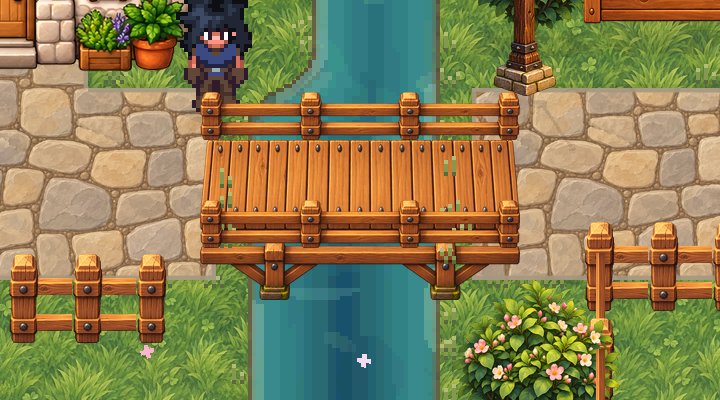
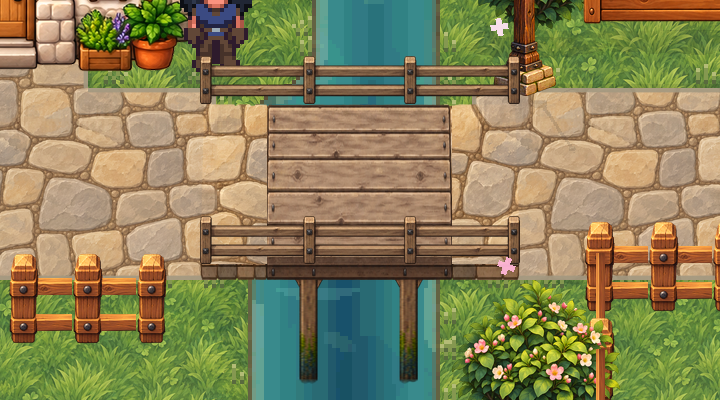
Integra ponte ao calçamento e leva as estacas até a água

diff --git a/ferramentas/cidade/preparar_ponte_detalhada.py b/ferramentas/cidade/preparar_ponte_detalhada.py
@@ -4,22 +4,35 @@ O original e o pedido ficam em arte/fontes/cidade/ponte_detalhada.
 Geometria e colisão: codigo/cidade/ponte_cidade.gd (unidades lógicas).
 """
 from pathlib import Path
+import json
 from PIL import Image
 from preparar_complementos import ESTACOES, salvar, sazonal
 
 RAIZ = Path(__file__).resolve().parents[2]
-FONTE = RAIZ / 'arte/fontes/cidade/ponte_detalhada/kit.png'
+FONTE = RAIZ / 'arte/fontes/cidade/ponte_detalhada/kit_margens_estacas.png'
 SAIDA = RAIZ / 'assets/cenario/cidade/ponte_detalhada'
+
+
+def cabeceiras(im, estacao):
+    """Continua a pedra da rua na mesma escala e fase espacial do shader."""
+    pedra = Image.open(RAIZ / f'assets/cenario/cidade/chao_detalhado/pedra_{estacao}.png').convert('RGB')
+    im = im.copy()
+    for y in range(160):
+        for x in [*range(67), *range(252, 320)]:
+            r, g, b = pedra.getpixel(((636 * 4 + x) % 512, (252 * 4 + y) % 512))
+            im.putpixel((x, y), (r, g, b, im.getpixel((x, y))[3]))
+    return im
 
 
 def preparar():
     original = Image.open(FONTE).convert('RGBA')
     # Separação pelos intervalos transparentes do original; a mesma peça serve
     # às quatro estações e aos dois corrimãos, sem variar pivô nem comprimento.
+    contatos = []
     for nome, faixa, tamanho in [
-        ('piso', (0, 100, 1536, 360), (320, 108)),
-        ('corrimao', (0, 400, 1536, 660), (320, 48)),
-        ('apoios', (0, 700, 1536, 970), (320, 60)),
+        ('piso', (0, 125, 1536, 360), (320, 176)),
+        ('corrimao', (0, 395, 1536, 555), (320, 48)),
+        ('apoios', (0, 595, 1536, 985), (176, 120)),
     ]:
         im = original.crop(faixa)
         alpha = im.getchannel('A')
@@ -28,8 +41,50 @@ def preparar():
         # as bordas suavizadas da pintura e os vãos reais entre as travessas.
         im.putalpha(im.getchannel('A').point(lambda a: 0 if a < 32 else a))
         im = im.resize(tamanho, Image.Resampling.LANCZOS)
+        if nome == 'apoios':
+            # Ajusta a espessura dos dois pilares à escala lógica, preservando
+            # a viga e as mãos francesas do desenho. As pontas continuam na
+            # mesma linha de água, com quatro pixels e meio de madeira maciça.
+            for x0, x1 in [(25, 35), (141, 151)]:
+                pilar = im.crop((x0, 0, x1, im.height)).resize((21, im.height), Image.Resampling.LANCZOS)
+                im.paste((0, 0, 0, 0), (x0, 0, x1, im.height))
+                im.alpha_composite(pilar, (x0 - 6, 0))
+            # O intervalo entre pilares coincide com os dois postes internos
+            # do corrimão, em vez de deixar o guarda-corpo sem apoio alinhado.
+            im = im.resize((152, 120), Image.Resampling.LANCZOS)
+            # A água encontra os dois pilares reais da imagem, sem usar os
+            # extremos da viga nem presumir que o desenho chega aos cantos.
+            y = im.height - 6
+            trechos = []
+            for x in range(im.width):
+                if im.getpixel((x, y))[3] < 160:
+                    continue
+                if not trechos or x > trechos[-1][-1] + 1:
+                    trechos.append([x])
+                else:
+                    trechos[-1].append(x)
+            assert len(trechos) == 2, 'A linha de água deve cortar duas estacas.'
+            contatos = [[round((t[0] + t[-1]) / 8, 3), y / 4] for t in trechos]
+            # Só a ponta imersa perde opacidade, sem esconder nem encurtar as
+            # estacas. A ondulação de contato é renderizada abaixo da madeira.
+            alpha = im.getchannel('A')
+            for yy in range(im.height - 6, im.height):
+                for xx in range(im.width):
+                    alpha.putpixel((xx, yy), round(alpha.getpixel((xx, yy)) * (im.height - yy) / 6))
+            im.putalpha(alpha)
         for indice, estacao in enumerate(ESTACOES):
-            salvar(sazonal(im, indice), SAIDA / estacao / (nome + '.png'))
+            variante = sazonal(im, indice)
+            if nome == 'piso':
+                variante = cabeceiras(variante, estacao)
+            if nome == 'apoios' and estacao == 'inverno':
+                # Madeira e algas junto à água ficam frias e úmidas, sem
+                # converter o limo submerso em manchas de neve branca.
+                for y in range(20, im.height):
+                    for x in range(im.width):
+                        r, g, b, a = im.getpixel((x, y))
+                        variante.putpixel((x, y), (round(r * .93), round(g * .96), min(255, round(b * 1.02)), a))
+            salvar(variante, SAIDA / estacao / (nome + '.png'))
+    (SAIDA / 'geometria.json').write_text(json.dumps({'contatos_apoios': contatos}, indent=2) + '\n')
 
 
 if __name__ == '__main__':

diff --git a/ferramentas/cidade/terreno_vila.py b/ferramentas/cidade/terreno_vila.py
@@ -19,10 +19,10 @@ RAIO_PRACA = (88, 60)
 LAGO = (440, 530)
 RAIO_LAGO = (66, 34)
 MEIA_LARGURA_RIO = 20
-# Ponte80×44: piso em y268..285; abertura considera pés e raio dos atores.
+# Ponte alinhada à rua: piso em y252..292; os corrimãos fecham suas laterais.
 PONTE_APOIO_Y = 298
-PONTE_LIMITE_NORTE = 261
-PONTE_LIMITE_SUL = 288
+PONTE_LIMITE_NORTE = 252
+PONTE_LIMITE_SUL = 292
 RUAS = [((0, 272), (676, 272), 22),      # rua principal: entrada da fazenda até a ponte
         ((336, 168), (336, 576), 20),     # rua da sede até a saída sul da praia
         ((64, 448), (608, 448), 18),      # rua de baixo, das portas da pousada, do Bento e da mística

diff --git a/ferramentas/projeto/CONTEXTO.md b/ferramentas/projeto/CONTEXTO.md
@@ -17,7 +17,7 @@ Consulta sob demanda; confirmar no código antes de editar. Projeto Godot 4, GDS
 | Fachadas detalhadas | `ferramentas/cidade/preparar_exteriores_nitidos.gd` prepara texturas4x nas quatro estações; aceita ids após `--` para atualizar só as casas indicadas e preservar as demais entradas do manifesto. Venda, sede, enfermaria, mística, Bento, forja e carpintaria usam folhas pintadas2×2 de `arte/fontes/cidade/fachadas_padrao_taverna/`, com taverna como referência de acabamento; contrato e prompts nessa pasta. Extração descarta pontos soltos e alinha a soleira de cada estação à porta existente, incluindo a neve. `fachadas_detalhadas.gd` e `DetalheAmbiente` preservam canvas/pivô lógicos, com amostragem linear/mipmaps somente nas fachadas; geometria/colisões ficam em `casas/exteriores.json`. `teste_nitidez_exteriores.gd` revisa cidade/fazenda/praia e36 combinações com saves isolados, verificando também que regenerar não retoma as fontes pixeladas. Fundos do menu são recapturados em2816×2304 por `capturar_fundos_interface.gd`, com escala lógica preservada em `fundo_vila_viva.gd`. |
 | Enfeites detalhados | `ferramentas/cidade/preparar_enfeites_detalhados.gd` prepara fontes de `arte/fontes/cidade/enfeites_detalhados/` e o coreto original em texturas4x sazonais; manifesto em `assets/cenario/cidade/enfeites_detalhados/`. `enfeites_detalhados.gd`, `decoracao_vila.gd` e `DetalheAmbiente` preservam posições, pivôs, colisões, assentos e visibilidade do layout. Fonte: `agua_fonte.gd` simula as duas bacias a30Hz (ondas, amortecimento, bordas refletoras), cinco jatos balísticos e respingos; `agua_fonte.gdshader` desloca/reflete a superfície pelo campo de alturas; pedra fixa. Mural, correio, galinheiro, floreira e lenha com projeção frontal top-down; prompts em `perspectiva_frontal.json`. `teste_enfeites_detalhados.gd` captura praça/quintal/coreto/horta/piquenique em quatro estações, com saves isolados. Recapturar os fundos do menu após alterações. |
 | Complementos da cidade | `python3 ferramentas/cidade/preparar_complementos.py` prepara cercas conectáveis4x (horizontal, vertical, poste), placas de saída, portal animado e galinha canônica do Bento. Fontes/prompts em `arte/fontes/cidade/enfeites_detalhados/`; recursos em `assets/cenario/cidade/complementos/`. CercasJardins/LimitesVila/QuintalCarpinteiro usam as mesmas peças e quatro estações; o abrigo do carpinteiro usa o galinheiro frontal. Correio removido do layout. `teste_acabamento_cidade.gd` captura os componentes e verifica F3, caminho dos recursos, escalas e margens dos balões. Soleiras das fachadas são medidas por `SOLEIRAS` em `preparar_exteriores_nitidos.gd`, sem usar barris/vasos como referência; taverna usa `pousada_frontal.png`. |
-| Ponte detalhada da cidade | `ponte_cidade.gd`, montada por `decoracao_vila.gd`: piso e apoios abaixo dos atores, corrimãos com profundidade independente pela base e colisões físicas nas duas laterais até as cabeceiras. `python3 ferramentas/cidade/preparar_ponte_detalhada.py` prepara quatro estações4× do kit pintado em `arte/fontes/cidade/ponte_detalhada/`; troca pelo calendário/F3 via `DetalheAmbiente`. `teste_ponte_cidade.gd` confere travessia, cabeceiras, cadeira real da Helena, navegação, profundidade e texturas das quatro estações em save isolado; capturas em `/tmp/algoland-ponte-cidade/`. |
+| Ponte detalhada da cidade | `ponte_cidade.gd`, montada por `decoracao_vila.gd`: tablado80×40 alinhado à rua, cabeceiras com o material/fase real do calçamento, corrimãos com profundidade pela base e colisões físicas nas laterais até as cabeceiras. Estacas38×30 sob o tablado, alinhadas ao corrimão, entram na água, com ondas em `contato_estacas.gd`; linha de imersão calculada do sprite em `geometria.json`. Piso acima dos tufos de grama, apoios abaixo dele. `python3 ferramentas/cidade/preparar_ponte_detalhada.py` prepara quatro estações4× de `kit_margens_estacas.png`, com madeira neutra e fontes/pedido em `arte/fontes/cidade/ponte_detalhada/`; troca pelo calendário/F3 via `DetalheAmbiente`. A abertura do rio em `terreno_vila.py` corresponde a y252..292. `teste_ponte_cidade.gd` verifica colisões, cadeira física, navegação, oclusão, material das cabeceiras e estacas na água nas quatro estações, em save isolado; capturas em `/tmp/algoland-ponte-cidade/`. |
 | Chão detalhado da cidade | `python3 ferramentas/cidade/preparar_chao_detalhado.py` prepara grama/pedra512×512 (período lógico128px, quatro estações), com Pillow e fontes/prompts em `arte/fontes/cidade/chao_detalhado/`. `chao_detalhado.gd` lê as células reais e monta máscara Wang4x; compõe os materiais uma vez por estação em um SubViewport4x, apresentando a textura emz=-999 sem alterar ids, índices, colisões ou a máscara da água. Os acessos visuais são centralizados nas soleiras reais, corrigindo o arredondamento de meia célula; o terreno original deixa de ser desenhado após compor o cache. `cidade.gd` atualiza os campos pelo calendário/F3. `teste_chao_detalhado.gd` fotografa praça, ponte e quintal antes/depois nas quatro estações e verifica preservação das células e da água. Recapturar fundos com `capturar_fundos_interface.gd`. |
 | Substituição de tiles Mana Seed | `python3 ferramentas/cenario/substituir_mana_seed.py` prepara e integra os terrenos/árvores/entulho de `gerar_natureza_original.py` (grama e árvores geradas com referência direta Mana Seed; modelo da árvore escolhido pelo usuário, redesenho com grupos maiores em `arte/fontes/cenario/nitidez/`, preparo em `preparar_revisao_mana.py`) e interiores locais PixelLab. A vila e a orla usam `assets/cenario/algoland_original/`; os atlas compatíveis ficam em `assets/cenario/substitutos/`. Contratos/fontes em `arte/fontes/cenario/algoland_original/` e `substituicao_mana/`. Reexecutar após geradores antigos de cenas. `teste_tiles_substitutos.gd -- --capturar` confere oito mapas nas quatro estações em save isolado e grava `/tmp/algoland-tiles-capturas/`. A auditoria específica dos onze andares está descrita abaixo; não altera personagens/ícones existentes. |
 | Arte própria dos onze andares | `python ferramentas/fendas/preparar_arte_original.py` substitui os atlas auxiliares Mana/Gentle, os props das florestas e os brilhos por recursos próprios existentes nas quatro estações. Preserva peças e água RPGW das cavernas, células, entradas e colisões; remove bases dos arbustos legados invisíveis. `assets/cenario/substitutos/fendas/andar_XX/` guarda os atlas; máscaras semânticas de água ficam em `arte/fontes/cenario/andares_originais/`. `gerar_jornada.py` integra o preparo ao final; `gentle_forest.py` mantém apenas o adaptador geométrico, sem consumir arte Gentle. Florestas usam `terra_continua.gd` com fase espacial; `gentle_sazonal.gd` usa árvores e brilhos próprios. `teste_arte_andares_originais.py` audita caminhos e detecta tiles comerciais copiados/recoloridos; `teste_tiles_substitutos.gd` verifica as quatro estações e `teste_colisoes_andares.gd` verifica bases e passagens. `renderizar_jornada.gd -- --detalhes-cenario` captura também lagos e relevos. |

diff --git a/arte/fontes/cidade/ponte_detalhada/contrato.md b/arte/fontes/cidade/ponte_detalhada/contrato.md
@@ -1,33 +1,45 @@
 # Ponte da cidade
 
-Original gerado com `image_gen`: `kit.png`, 1536×1024, RGBA.
-Referências: `enfeites_detalhados/cerca.png` e `pousada_frontal.png`.
+Original atual gerado com `image_gen`: `kit_margens_estacas.png`, 1536×1024,
+RGBA. Pedido completo em `prompt_margens_estacas.txt`. Referências: o material
+`chao_detalhado/pedra.png` e os arredores da ponte na captura da cidade.
+O primeiro `kit.png` foi rejeitado pelo usuário: madeira alaranjada, piso estreito
+e apoios curtos com sapatas. É uma fonte histórica e não alimenta o preparador.
 
-Pedido de produção: kit de ponte horizontal leste–oeste, vista ortográfica de
-RPG inclinada, pintura detalhada com carvalho quente e pequenos pregos de ferro,
-no acabamento das cercas e da taverna. Três componentes isolados em linhas, sem
-cenário, água, texto ou sombra externa: piso de tábuas sem corrimãos; balaustrada
-com quatro postes e duas travessas com vãos transparentes; viga inferior com dois
-pilares e mãos francesas. Mesma largura nas três peças e espaço transparente
-entre linhas. Silhuetas simples para uma ponte de 80 pixels lógicos de largura.
+Direção atual: tablado amplo, madeira envelhecida de tom neutro, entradas
+niveladas de pedra e corrimãos leves. Duas estacas longas e maciças, sem sapatas,
+entram diretamente na água. Piso, corrimão e estrutura inferior são componentes
+separados, com vãos transparentes e mãos francesas abaixo do piso.
 
 Preparação: `python3 ferramentas/cidade/preparar_ponte_detalhada.py`. Recortes do
 original em resolução 4×; as quatro estações compartilham a mesma geometria.
-Reutiliza o tratamento sazonal das cercas: madeira mais quente no verão,
-escurecida no outono, musgo sazonal e neve fina apenas nas superfícies superiores
-no inverno. A passagem central continua exposta.
+O piso tem 320×176, corrimãos 320×48 e apoios 152×120 pixels. As estacas são
+ajustadas para espessura lógica de 4,5 pixels, preservando viga e diagonais.
+As cabeceiras continuam o material real da rua com período lógico de 128 pixels,
+na mesma fase mundial e estação, evitando pedras esticadas ou outra paginação.
+Reutiliza o tratamento sazonal das cercas nas partes expostas; madeira e algas
+imersas ficam frias no inverno, sem neve branca sob a água. A passagem fica livre.
 
 Integração: `codigo/cidade/ponte_cidade.gd`, criada pelo layout existente em
-`decoracao_vila.gd`. Âncora (676,298); piso mundial x636..716, y261..288.
-Apoios em z=-996, piso em z=-995. Corrimãos têm profundidade independente pela
-base e colisão na camada 64: norte y257..261, sul y288..292, largura 80.
+`decoracao_vila.gd`. Âncora (676,298); piso mundial x636..716, y252..292.
+Apoios em z=-991, piso em z=-989: os tufos das margens (-990) ficam sob o piso,
+sem atravessá-lo. Corrimãos têm profundidade independente pela base e colisão na
+camada 64: norte y248..252, sul y292..296, largura 80. A abertura do rio corresponde
+à largura real da travessia, em `terreno_vila.py` e `cenas/cidade.tscn`.
 As entradas leste/oeste permanecem abertas. A navegação lê essas mesmas formas;
 não se adiciona obstáculo nos pilares abaixo do piso. Os polígonos existentes do
-rio continuam impedindo a passagem fora da ponte.
+rio continuam impedindo a passagem fora da ponte. A estrutura inferior começa
+em (656,75;292) e tem 38×30 pixels lógicos, com as estacas alinhadas aos dois
+postes internos do corrimão. `geometria.json` registra a interseção da
+água com as duas estacas a partir dos pixels reais do sprite. `contato_estacas.gd`
+desenha pequenas ondas abaixo da madeira (z=-992); somente as pontas submersas
+têm transparência gradual. Não há blocos de pedra flutuando sob os pilares.
 
 As texturas seguem o calendário e a prévia de estação/F3 via `DetalheAmbiente`.
 Teste gráfico com save isolado: `testes/teste_ponte_cidade.gd`. Verifica travessia
-nos dois sentidos, bloqueio no centro e nas cabeceiras, profundidade, cadeira
-física da Helena, navegação e as quatro variantes reais. Capturas temporárias em
+nos dois sentidos em três faixas, bloqueio no centro e nas cabeceiras, profundidade,
+cadeira física da Helena, navegação, contato real das estacas com o rio, ausência
+de grama sobre o piso e material/fase das cabeceiras nas quatro variantes.
+Capturas temporárias em
 `/tmp/algoland-ponte-cidade/`; revisão final preservada em
 `arte/previas/cidade/ponte_detalhada/`.
